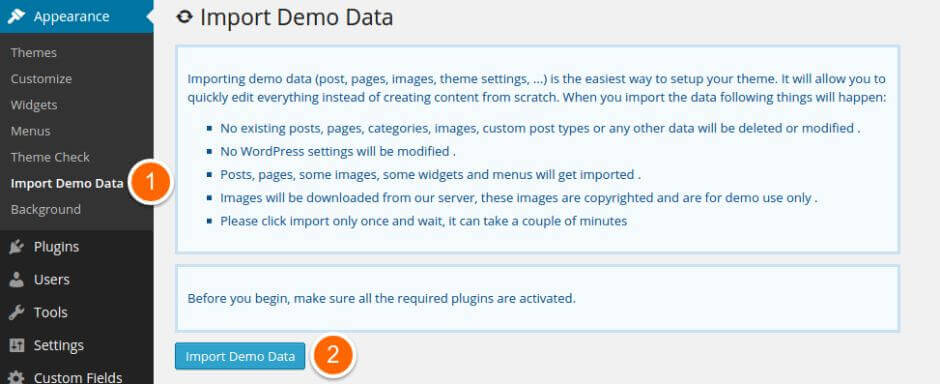
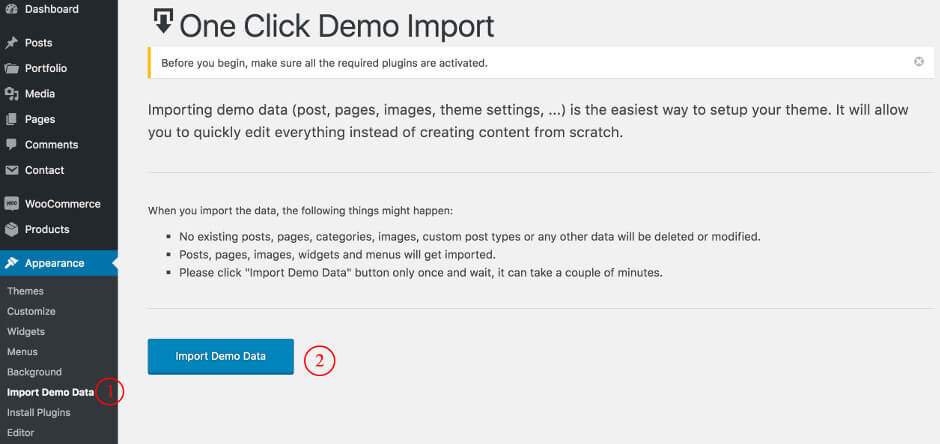
Update docs for Adrenaline theme

Changed region(s): [[0.0, 0.0, 0.9872, 1.0], [0.9564, 0.125, 0.9872, 0.1562], [0.9255, 0.375, 0.9564, 0.4062]]

diff --git a/src/adrenaline/sass/_vars.scss b/src/adrenaline/sass/_vars.scss
@@ -4,7 +4,7 @@
 
 // Brand colors
 // -------------------------
-$primary-color: #bc001f;
+$primary-color: #ff7240;
 
 // Typography
 // -------------------------
